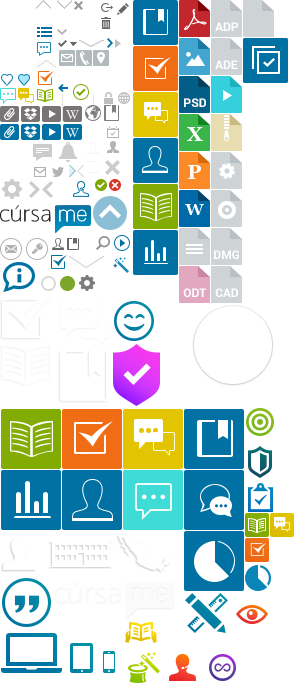
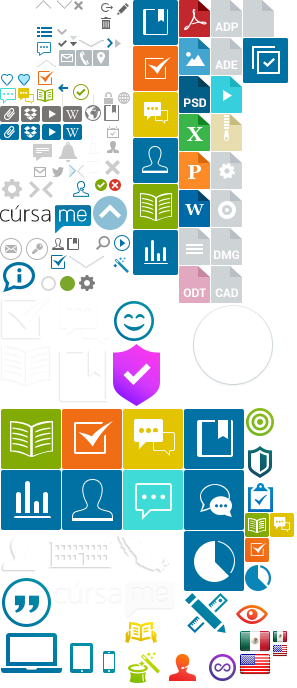
Estilo en dropdown de lenguaje

Changed region(s): [[0.7879, 0.9157, 0.9697, 1.0]]

diff --git a/app/assets/stylesheets/global/_icons.scss b/app/assets/stylesheets/global/_icons.scss
@@ -110,6 +110,7 @@
 .i-lock { width: 12px; height: 12px; background-position: -103px -92px; }
 .i-public { width: 12px; height: 12px; background-position: -118px -92px; }
 .i-drop-arrow { width: 7px; height: 10px; background-position: -70px -38px; }
+.i-drop-arrow-white { width: 7px; height: 10px; background-position: -70px -33px; }
 .i-check {	width: 9px; height: 7px; background-position: -58px -40px; }
 .i-course-mini-w { width: 12px; height: 12px; background-position: -121px -106px; }
 .i-date-mini-w { width: 12px; height: 12px; background-position: -121px -120px; }
@@ -125,6 +126,8 @@
 .i-pie-chart { width: 26px; height: 26px; background-position: -245px -565px; }
 .i-wizard { width: 16px; height: 16px; background-position: -113px -257px; }
 .i-settings-g-16 { width: 16px; height: 18px; background-position: -79px -275px; vertical-align: middle; }
+.i-mx-flag-mini { width: 14px; height: 12px; background-position: -273px -631px; vertical-align: -2px; }
+.i-usa-fag-mini { width: 14px; height: 12px; background-position: -273px -645px; vertical-align: -2px; }
 
 /* File Types Icons */
 .i-file-type-dimension { width: 31px; height: 37px; }

diff --git a/app/assets/stylesheets/website/_skin.scss b/app/assets/stylesheets/website/_skin.scss
@@ -244,7 +244,7 @@
     text-shadow: 0 1px 1px rgba(0,0,0,.25);
   }
 
-  ul li a {
+  .footer-links > li a {
     color: #AEBDC4;
     text-shadow: 0 1px 1px rgba(0,0,0,.25);
     @include text-size-regular;
@@ -544,5 +544,23 @@
 
   .jobs-positions:hover {
     opacity: .5;
+  }
+}
+
+// Language Changer
+.lang-changer {
+  .dropdown-pull {
+    background: lighten(#566267, 5%);
+    border: 1px solid lighten(#566267, 10%);
+    border-radius: $radius;
+    box-shadow: 0 1px 1px rgba(0,0,0,.05);
+
+    &:hover {
+      background: lighten(#566267, 7%);
+    }
+
+    h5 {
+      color: #ccd5d9;
+    }
   }
 }

diff --git a/app/assets/stylesheets/website/_skeleton.scss b/app/assets/stylesheets/website/_skeleton.scss
@@ -279,7 +279,7 @@
     margin-bottom: 15px;
   }
 
-  ul li {
+  .footer-links > li {
     padding-bottom: 5px;
   }
 }
@@ -612,4 +612,29 @@
 
 .about-sponsors .sponsors {
   padding-top: 20px;
+}
+
+// Language Changer
+.lang-changer {
+  width: 120px;
+  margin-top: 10px;
+
+  .dropdown-pull {
+    position: relative;
+    padding: 10px;
+    
+    .i-drop-arrow-white {
+      position: absolute;
+      right: 10px;
+      top: 15px;
+    }
+
+    .i {
+      margin-right: 3px;
+    }
+
+    h5 {
+      margin: 0;
+    }
+  }
 }

diff --git a/config/routes.rb b/config/routes.rb
@@ -21,12 +21,24 @@ Cursame30Lb::Application.routes.draw do
   get "superadmnin/courses_sintetic_view_and_edit"
   get "superadmnin/publicity_modul_controller"
 
-  ###### configuración de managers de la red
+  # Network Manager
   get "managers/wall"
   get "managers/members"
   get "managers/network_configuration"
   get "managers/library"
   get "managers/delete_user", :as => :delete_user
+  get "managers/import_users" => "managers#import_users", :as => :managers_import_users
+  get "managers/send_mails" => "managers#send_mails", :as => :massive_mails
+  match "managers/sending" => "managers#sending", :as => "massive_sending", :via => [:post]
+  post "/managers/upload_users" => "managers#upload_users", :as => :upload_users
+  get "managers/import_courses", :to => "managers#import_courses", :as => :managers_import_courses
+  post "managers/import_courses", :to => "managers#upload_courses", :as => :upload_courses
+  get "managers/import_members", :to => "managers#import_members", :as => :managers_import_members
+  post "managers/import_members", :to => "managers#upload_members", :as => :upload_members
+
+  resources :managers do
+    resources :roles
+  end
 
   ##### respuestas a la evaluaciones
   resources :response_to_the_evaluations do
@@ -66,12 +78,6 @@ Cursame30Lb::Application.routes.draw do
 
   # colocando course files
   resources :course_files, :as => :course_files, :defaults => { :format => 'js' }
-  # metodos de manejo de cursos
-  get "managers/import_courses", :to => "managers#import_courses", :as => :managers_import_courses
-  post "managers/import_courses", :to => "managers#upload_courses", :as => :upload_courses
-
-  get "managers/import_members", :to => "managers#import_members", :as => :managers_import_members
-  post "managers/import_members", :to => "managers#upload_members", :as => :upload_members
 
   #Calificar Actividades
   get '/evaluate', :to => 'evaluate#index', :as => :evaluate_activities
@@ -266,12 +272,6 @@ Cursame30Lb::Application.routes.draw do
   post "user/:personal_url/groups/add_member" => "members_in_groups#create", :as => :add_member_in_group
   delete "user/:personal_url/groups/delete_member" => "members_in_groups#destroy", :as => :delete_member_in_group
 
-  # import csv de usuarios
-  get "managers/import_users" => "managers#import_users", :as => :managers_import_users
-  get "managers/send_mails" => "managers#send_mails", :as => :massive_mails
-  match "managers/sending" => "managers#sending", :as => "massive_sending", :via => [:post]
-  post "/managers/upload_users" => "managers#upload_users", :as => :upload_users
-
   post "/user/upload_users_a" => "users#upload_users_a", :as => :upload_users_a
 
 
@@ -385,11 +385,6 @@ Cursame30Lb::Application.routes.draw do
   #match 'managers/permissioning_for_manager/roles/:id',:to => "managers#permissioning_for_manager", :as => :permissioning_for_manager
 
   #resources :permissionings
-
-  resources :managers do
-    #resources :permissionings
-    resources :roles
-  end
 
   ####### subiendo validables with geocoder activities #########
   resources :activities

diff --git a/app/controllers/managers_controller.rb b/app/controllers/managers_controller.rb
@@ -10,10 +10,7 @@ class ManagersController < ApplicationController
     @diision =  @member.count
     @porcent_of_students =   ((@diision* 100)/ @network_population).to_i
     # @network_users = User.where(:network => current_network)
-
-
-
-
+    
     #### for courses counters
     @courses = current_network.courses
     @public_courses = @courses.where(:public_status => 'public')
